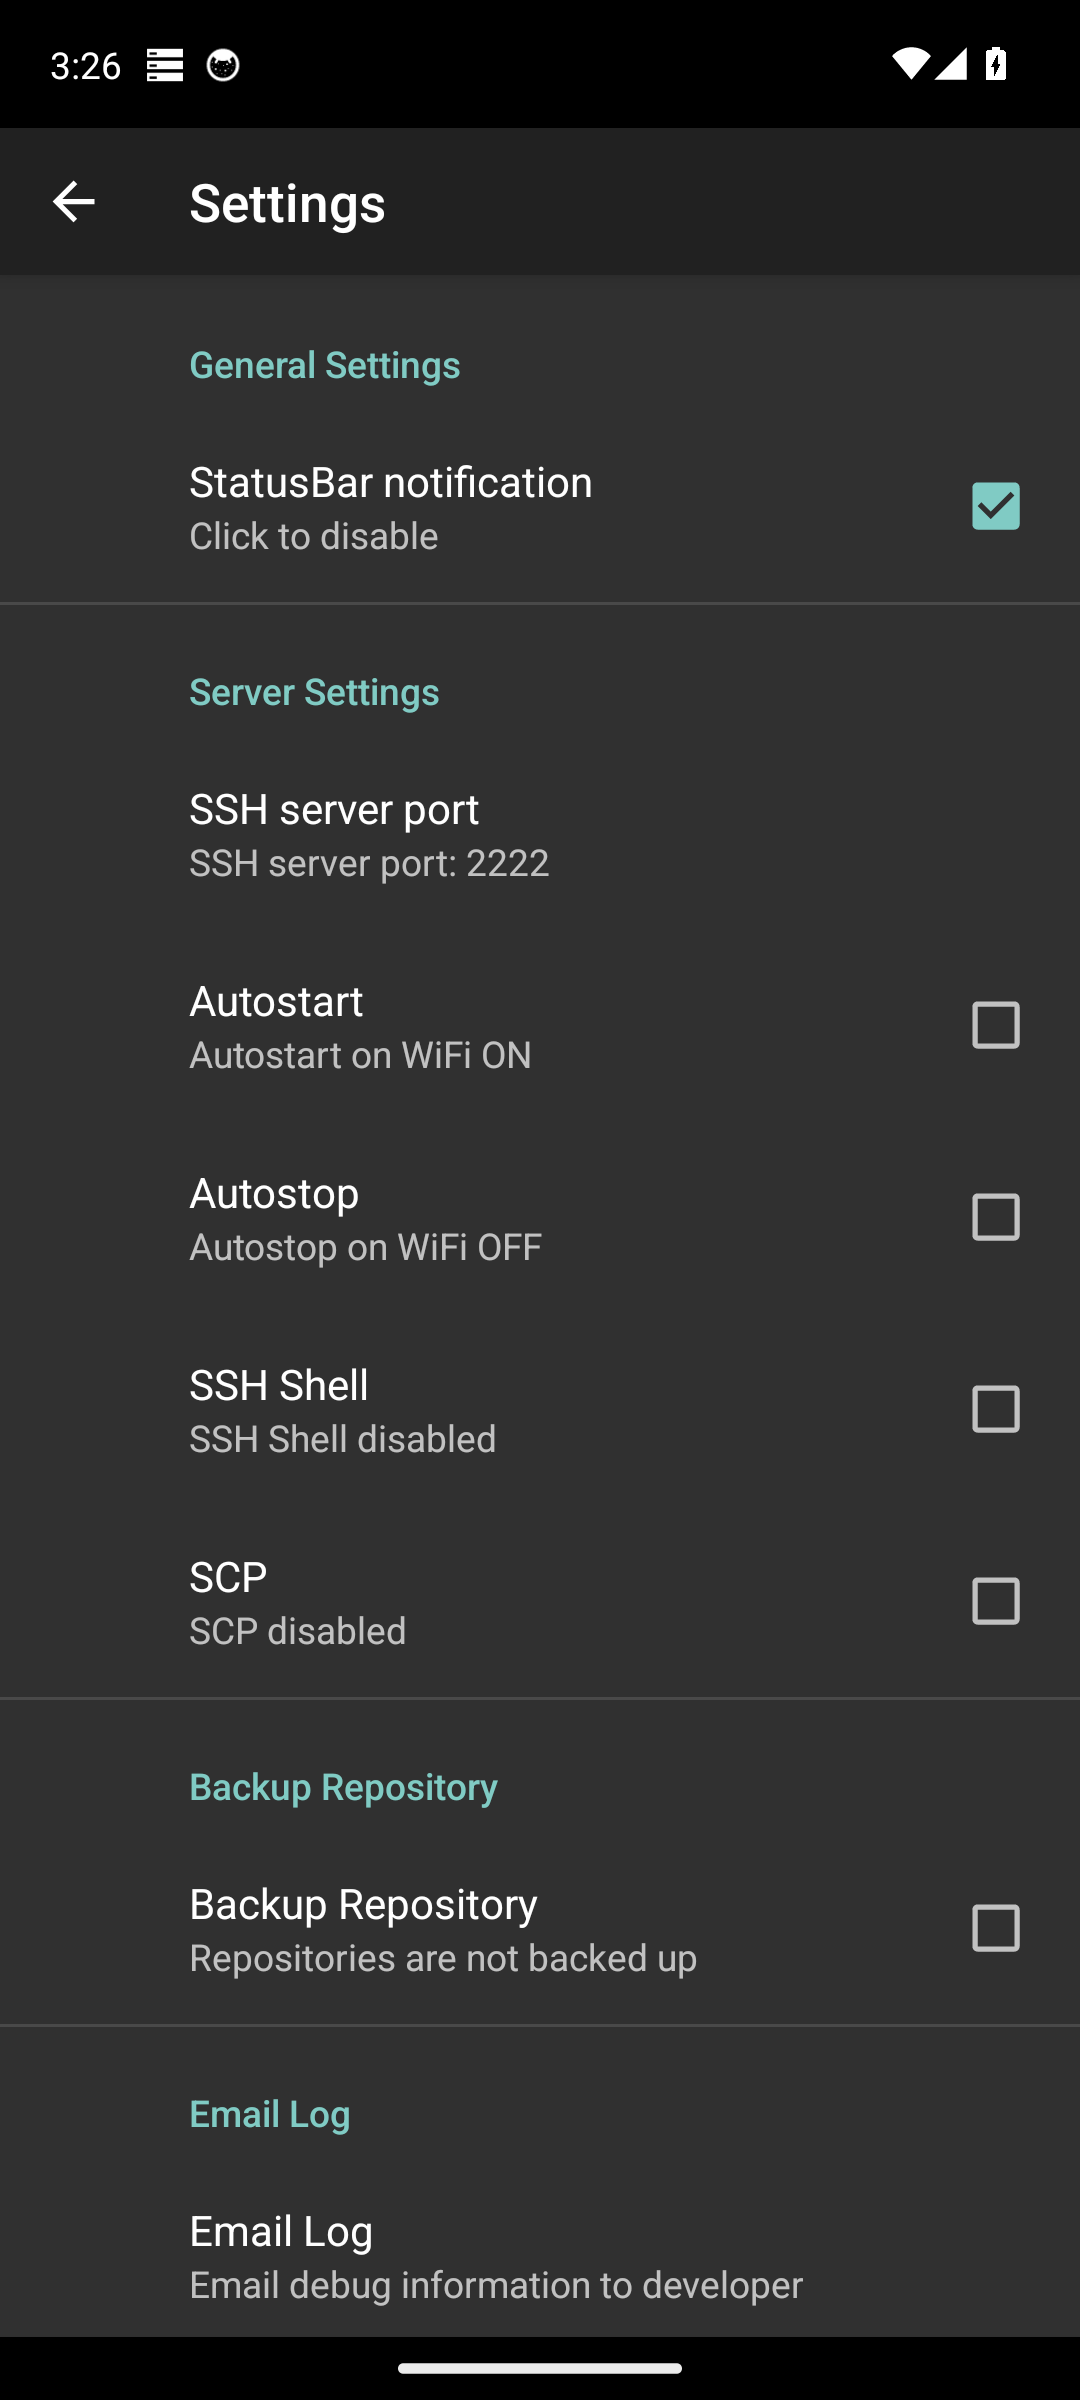
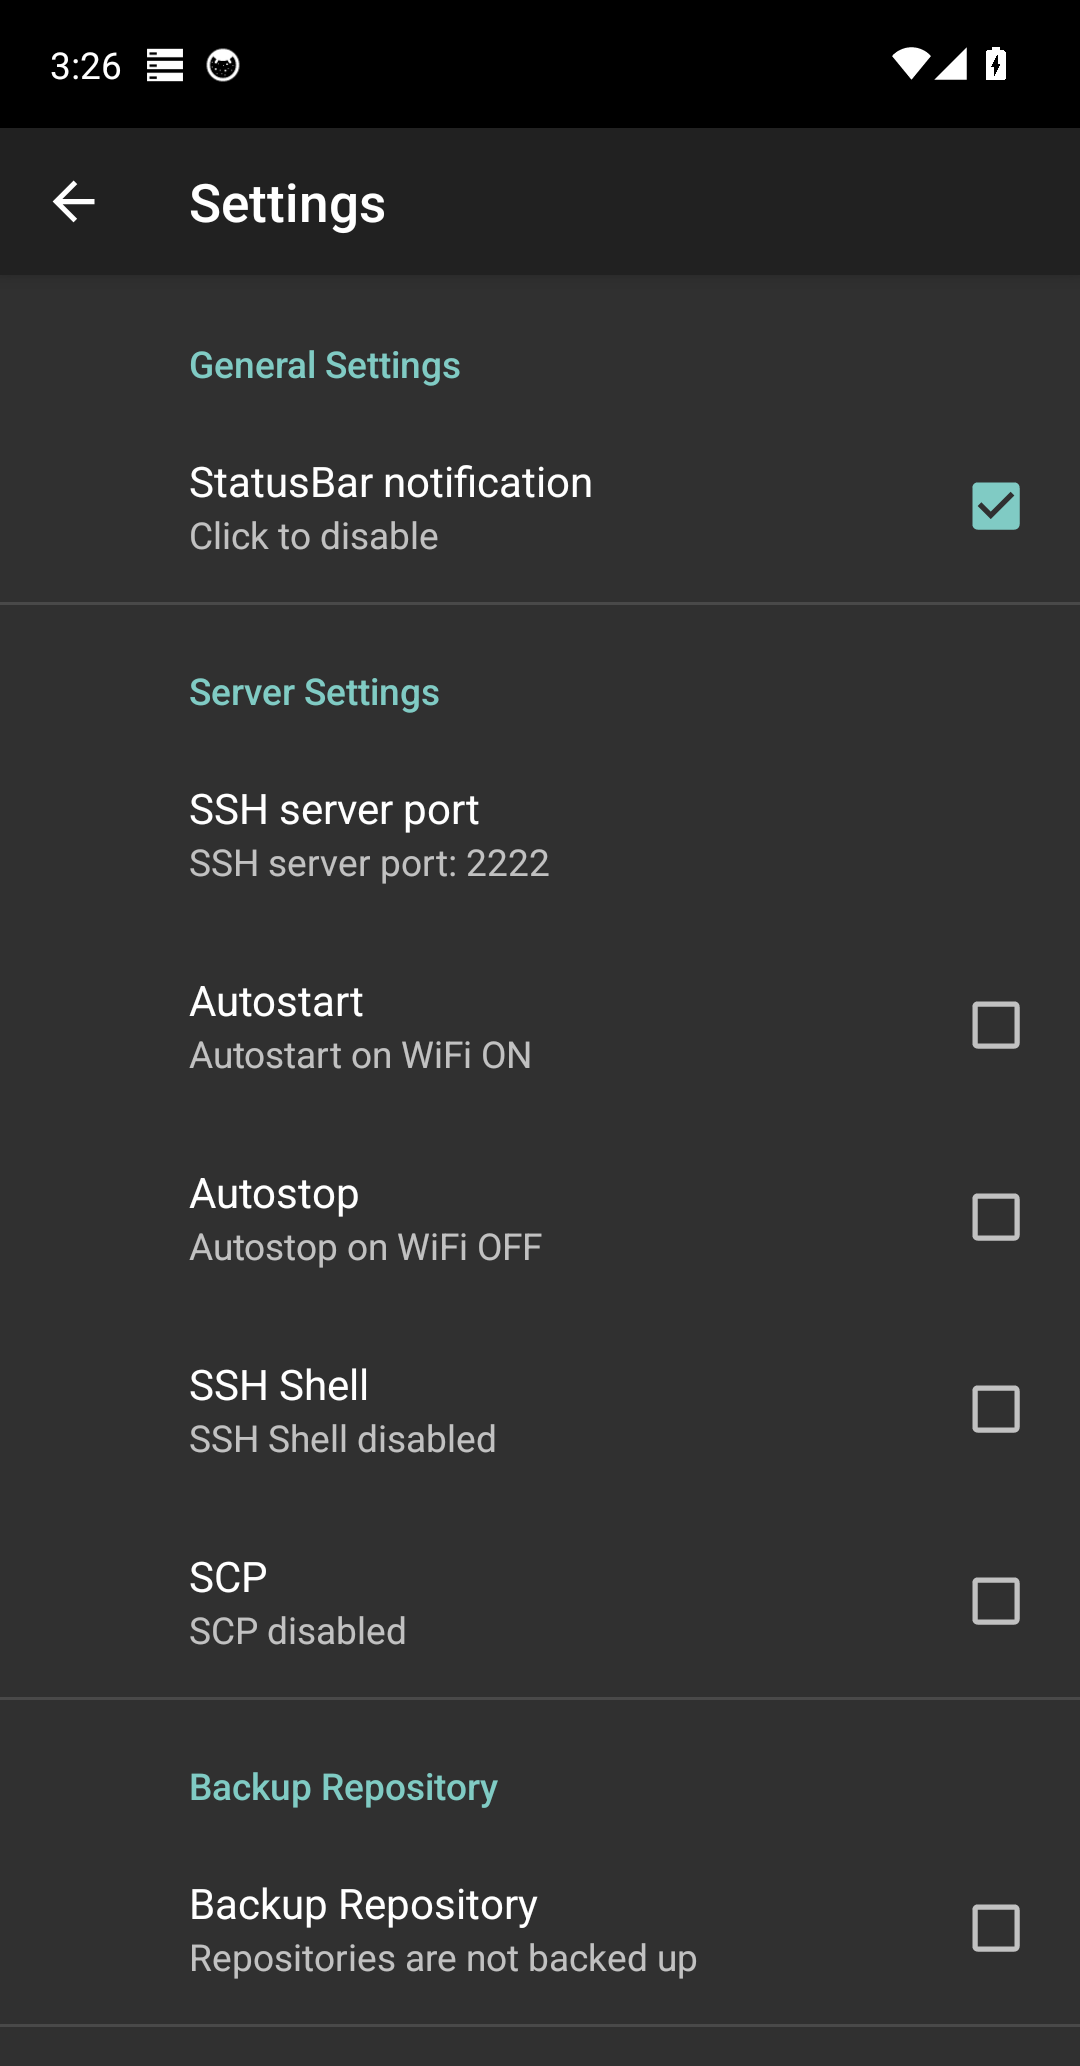
Remove email log feature and personal email addresses
Drop the Settings Email Log preference and its send-intent wiring,
delete the unused Logger helper, scrub personal emails from resources
and the No-IP user-agent, and update the README/settings screenshot.

diff --git a/app/src/main/java/io/github/gmkbenjamin/gitrepo/beta/ui/activity/GitrepoPreferencesActivity.java b/app/src/main/java/io/github/gmkbenjamin/gitrepo/beta/ui/activity/GitrepoPreferencesActivity.java
@@ -7,8 +7,6 @@ import android.content.DialogInterface;
 import android.content.Intent;
 import android.content.SharedPreferences;
 import android.content.SharedPreferences.OnSharedPreferenceChangeListener;
-import android.content.res.Resources;
-import android.net.Uri;
 import android.os.Bundle;
 import android.text.Editable;
 import android.text.InputType;
@@ -26,15 +24,8 @@ import androidx.preference.Preference;
 import androidx.preference.PreferenceFragmentCompat;
 import androidx.preference.PreferenceManager;
 
-import java.io.BufferedReader;
-import java.io.File;
-import java.io.FileInputStream;
-import java.io.IOException;
-import java.io.InputStreamReader;
-
 import io.github.gmkbenjamin.gitrepo.beta.R;
 import io.github.gmkbenjamin.gitrepo.beta.ui.util.C;
-import io.github.gmkbenjamin.gitrepo.beta.ui.util.Logger;
 import io.github.gmkbenjamin.gitrepo.beta.ui.util.PrefsConstants;
 
 public class GitrepoPreferencesActivity extends AppCompatActivity {
@@ -52,34 +43,6 @@ public class GitrepoPreferencesActivity extends AppCompatActivity {
                     .beginTransaction()
                     .replace(android.R.id.content, new GitrepoPreferenceFragment())
                     .commit();
-        }
-    }
-
-    public void emailLog(String[] addresses, String subject, String body, Uri attachment) {
-        try {
-            FileInputStream file = new FileInputStream(new File(getApplicationInfo().dataDir + "/log"));
-            StringBuilder sb = new StringBuilder();
-            BufferedReader reader = new BufferedReader(new InputStreamReader(file));
-            String line;
-            while ((line = reader.readLine()) != null) {
-                sb.append(line).append("\n");
-            }
-            reader.close();
-            body += "\n\n\n" + sb.toString();
-        } catch (IOException e) {
-            e.printStackTrace();
-        }
-        Intent intent = new Intent(Intent.ACTION_SEND);
-        intent.setType("text/plain");
-        intent.putExtra(Intent.EXTRA_EMAIL, addresses);
-        intent.putExtra(Intent.EXTRA_SUBJECT, subject);
-        intent.putExtra(Intent.EXTRA_TEXT, body);
-        intent.putExtra(Intent.EXTRA_STREAM, attachment);
-        if (intent.resolveActivity(getPackageManager()) != null) {
-            startActivity(Intent.createChooser(intent, "Send email..."));
-            finish();
-        } else {
-            Toast.makeText(this, getResources().getString(R.string.no_email_client), Toast.LENGTH_SHORT).show();
         }
     }
 
@@ -217,20 +180,6 @@ public class GitrepoPreferencesActivity extends AppCompatActivity {
                             editor.putString("password", "");
                             editor.commit();
                         }
-                        return true;
-                    }
-                });
-            }
-
-            Preference emailLog = findPreference(getString(R.string.email_log));
-            if (emailLog != null) {
-                emailLog.setOnPreferenceClickListener(new Preference.OnPreferenceClickListener() {
-                    @Override
-                    public boolean onPreferenceClick(Preference preference) {
-                        Resources res = getResources();
-                        GitrepoPreferencesActivity activity = (GitrepoPreferencesActivity) requireActivity();
-                        activity.emailLog(new String[]{res.getString(R.string.email)},
-                                res.getString(R.string.debug_log), Logger.getIntInfo(), null);
                         return true;
                     }
                 });

diff --git a/app/src/main/java/io/github/gmkbenjamin/gitrepo/beta/dns/NoIpStrategy.java b/app/src/main/java/io/github/gmkbenjamin/gitrepo/beta/dns/NoIpStrategy.java
@@ -47,7 +47,7 @@ public class NoIpStrategy extends DynamicDNS {
             connection.setConnectTimeout(5000);
             connection.setReadTimeout(3000);
             connection.setRequestMethod("GET");
-            connection.setRequestProperty("User-Agent", "Gitrepo/1.0 gmkbenjamin@users.noreply.github.com");
+            connection.setRequestProperty("User-Agent", "Gitrepo/1.0");
             String credentials = username + ":" + password;
             String basicAuth = "Basic " + Base64.encodeToString(
                     credentials.getBytes(StandardCharsets.UTF_8), Base64.NO_WRAP);

diff --git a/README.md b/README.md
@@ -19,7 +19,6 @@ What the current `master` build actually provides:
 - **Settings**: SSH port, status-bar notification, Wi‑Fi autostart/autostop, optional SSH shell, optional SCP
 - **Encrypted repository backup** via Android Backup (experimental; requires an encryption password in Settings)
 - **Home-screen widget** to toggle the SSH server
-- **Email debug log** action in Settings
 
 Modernisation already merged on `master`:
 
@@ -133,7 +132,6 @@ Password auth uses the password set for the user in the app. Public-key auth exp
 | SSH Shell | off | Allow interactive shell (`/system/bin/sh`); use client `-T` when enabled |
 | SCP | off | Enable SCP command factory (summary notes `/sdcard` writability) |
 | Repo backup | off | Encrypt/zip repos into Android Backup; set password when enabling |
-| Email log | — | Compose email with debug/network info |
 
 Start-on-boot and a custom repositories-directory preference exist in code/history but are **not** exposed in the current Settings UI. Repositories default to:
 
